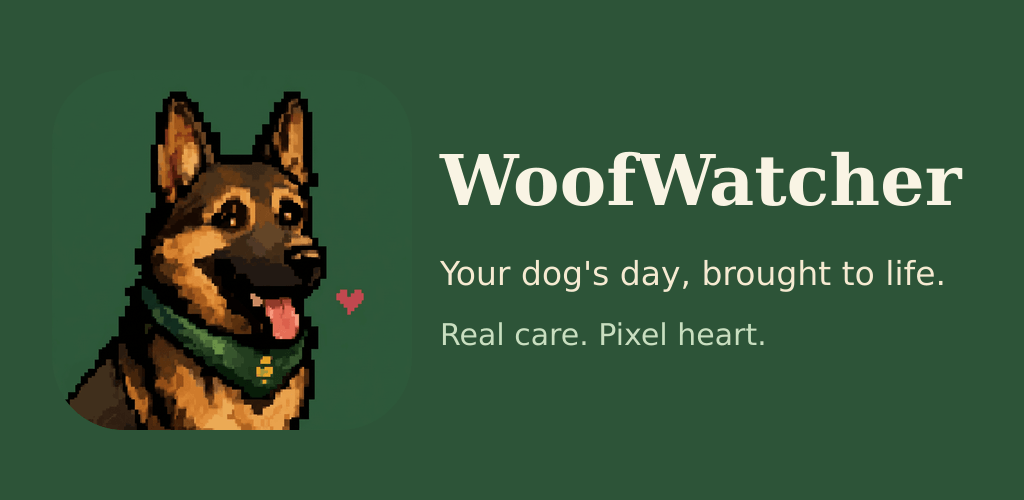
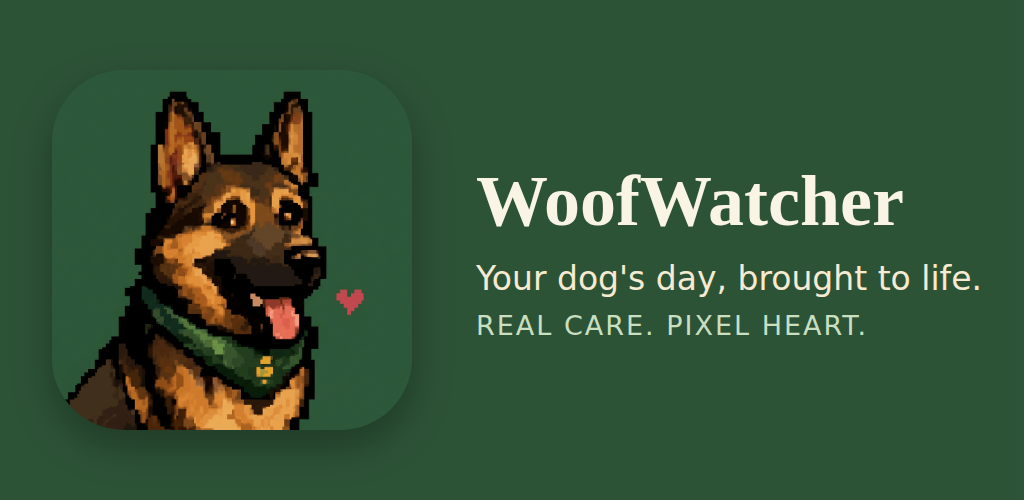
assets(release): regenerate the store screenshot pack on the polished build
The committed pack predated the living Day Trail and every polish pass. Fully
regenerated from the current export, honestly seeded through the app's own
Fast Log tiles (meal, potty, water, walk) with the capture clock shifted to
10 AM local so every scene renders daylight art:

- 01 Today now catches the app in its real 'On a walk now' state - the park
  stage with Phoenix out exploring and Care Sense reading a live happy day.
- 04 Story shows the new Day Trail: four real waypoints on the painted map
  with the twin walking past the latest stop.
- All captions and the Play feature graphic are now set in the real Fraunces/
  Fredoka brand fonts (the old sharp-composed pack fell back to DejaVu).

Replaces the two broken regen scripts (dead scratchpad paths, sharp + full
playwright deps no longer installed) with one self-contained
docs/release/tools/store-pack.mjs that captures, seeds, clock-shifts, and
composes panels in the browser - exact store dimensions verified
(1290x2796 iOS, 1080x2340 Play, 1024x500 feature).

Claude-Session: https://claude.ai/code/session_01UjRiRpdqZPQkVP69SmruU7

Changed region(s): [[0.4062, 0.3, 0.9375, 0.45], [0.4375, 0.51, 0.9688, 0.6], [0.4062, 0.63, 0.8438, 0.69]]

diff --git a/docs/release/store-screenshots/README.md b/docs/release/store-screenshots/README.md
@@ -1,14 +1,26 @@
 # Store Screenshot Pack
 
-Generated from the real production web export (EXPO_PUBLIC_BUILD_PROFILE=production),
-seeded only through the app's own quick-log flows - every number on screen is real.
+Generated from the real production web export, seeded only through the app's
+own Fast Log flow - every number, meter, and trail waypoint on screen is real.
+The capture clock is shifted to 10 AM local so the living rooms, the park, and
+the Story Day Trail all render their daylight art. Captions are set in the
+app's own Fraunces brand serif.
 
-- `ios-6.7/` - 1290x2796 PNG, Apple 6.7" requirement (also accepted for 6.9" listings).
-  Upload order: 01 Today, 02 Fast Log, 03 Plan, 04 Story, 05 Pack, 06 Health.
+- `ios-6.7/` - 1290x2796 PNG, Apple 6.7" requirement (also accepted for 6.9"
+  listings). Upload order: 01 Today (Phoenix out on a walk in the park), 02
+  Fast Log, 03 Plan, 04 Story (the living Day Trail with real waypoints),
+  05 Pack, 06 Health.
 - `play-phone/` - 1080x2340 PNG for Google Play phone listings.
 - `play-feature-graphic.png` - 1024x500 Google Play feature graphic.
 
-Regenerate: rebuild the production export, serve it (`pnpm --filter
-@workspace/woofwatcher-mobile run preview:smoke`), then run the session
-scratchpad scripts `store-shots.mjs` and `store-panels.mjs` (kept in
-`docs/release/tools/` copies).
+Regenerate (one command, no extra dependencies - panels are composed in the
+browser, so the pack uses the real brand fonts):
+
+```
+pnpm --filter @workspace/woofwatcher-mobile run smoke:web
+node docs/release/tools/store-pack.mjs
+```
+
+Outputs land in `$STORE_PACK_TMP` (default `/tmp/store-pack`) under
+`ios-6.7/`, `play-phone/`, and `play-feature-graphic.png`; review each panel,
+then copy them over this directory.
